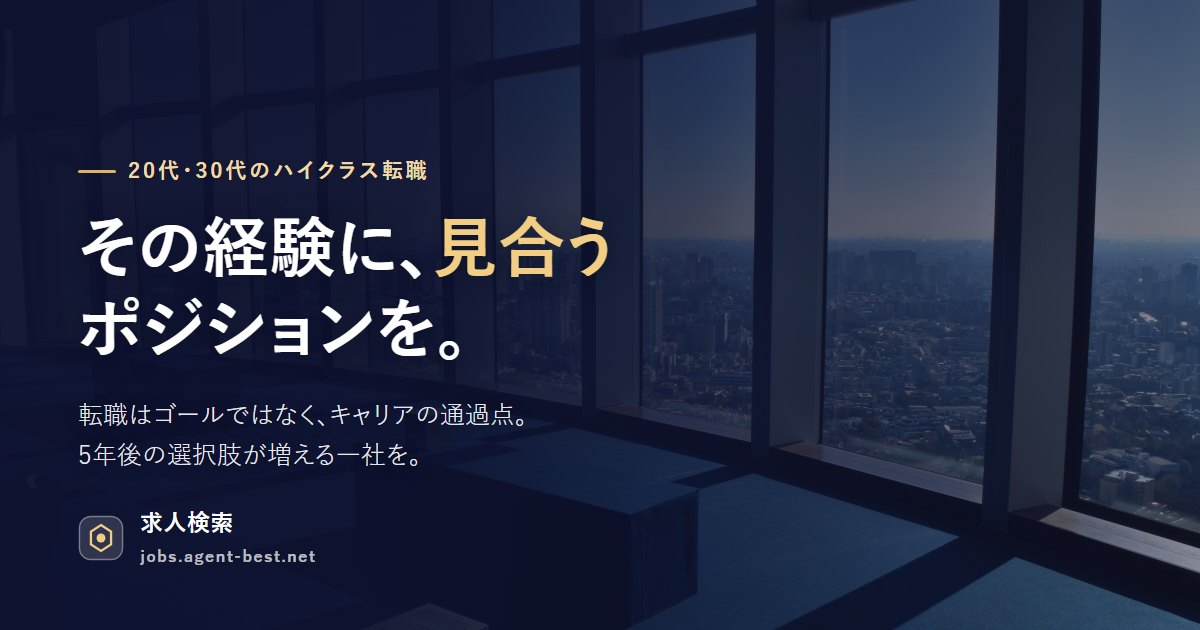
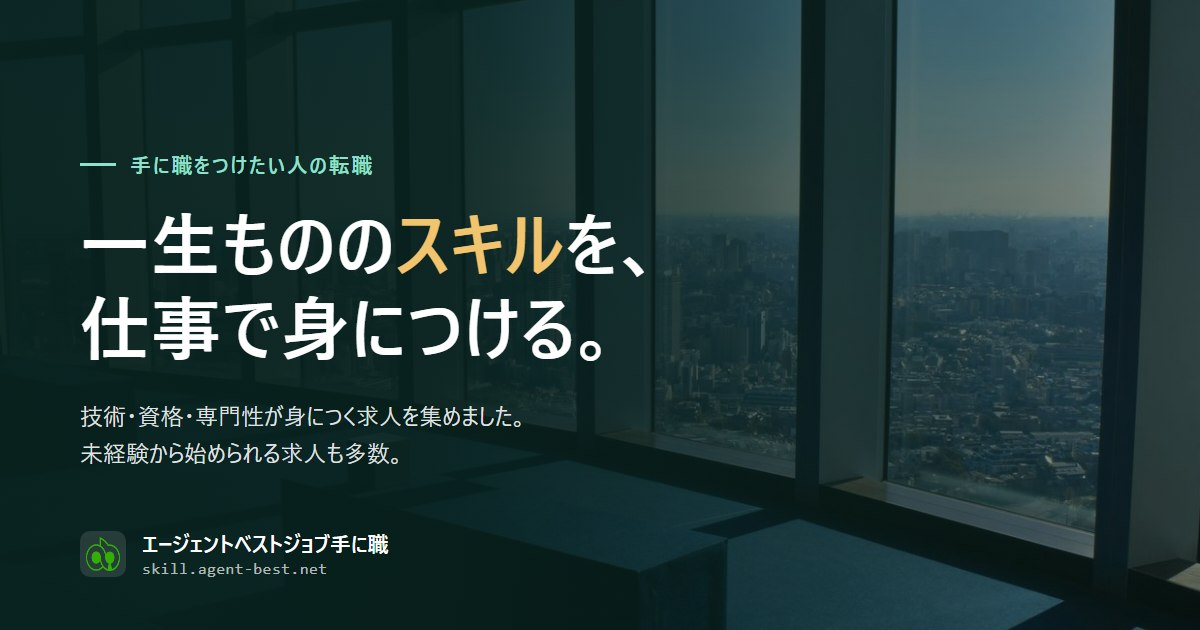
シェア画像（OGP）を skill 用に差し替え

diff --git a/tools/ogp/src.html b/tools/ogp/src.html
@@ -1,0 +1,30 @@
+<!doctype html>
+<html lang="ja"><head><meta charset="utf-8">
+<style>
+  html,body{margin:0;width:1200px;height:630px;overflow:hidden}
+  body{font-family:"Yu Gothic UI","Yu Gothic","Meiryo",sans-serif;color:#fff;position:relative;
+    background:url("file:///C:/Users/user/skill/assets/hero.jpg") center/cover no-repeat}
+  .scrim{position:absolute;inset:0;background:linear-gradient(96deg,rgba(8,34,30,.96) 0%,rgba(8,34,30,.90) 38%,rgba(9,38,33,.60) 66%,rgba(11,44,38,.34) 100%)}
+  .in{position:absolute;left:80px;top:150px;right:80px}
+  .eye{font-size:21px;font-weight:700;letter-spacing:.08em;color:#8FE0CC;display:flex;align-items:center;gap:14px;margin:0 0 22px}
+  .eye::before{content:"";width:36px;height:3px;background:#8FE0CC;display:block}
+  h1{margin:0;font-size:70px;line-height:1.2;font-weight:800;letter-spacing:.01em}
+  h1 em{font-style:normal;color:#F2C46D}
+  .sub{margin:30px 0 0;font-size:23px;line-height:1.6;color:rgba(255,255,255,.88)}
+  .brand{position:absolute;left:80px;bottom:52px;display:flex;align-items:center;gap:16px}
+  .brand img{width:46px;height:46px;border-radius:10px;background:rgba(255,255,255,.12);padding:6px;box-sizing:border-box}
+  .brand b{display:block;font-size:21px}
+  .brand span{display:block;font-size:16px;color:rgba(255,255,255,.7);font-family:Consolas,monospace;letter-spacing:.03em;margin-top:2px}
+</style></head>
+<body>
+  <div class="scrim"></div>
+  <div class="in">
+    <p class="eye">手に職をつけたい人の転職</p>
+    <h1>一生ものの<em>スキル</em>を、<br>仕事で身につける。</h1>
+    <p class="sub">技術・資格・専門性が身につく求人を集めました。<br>未経験から始められる求人も多数。</p>
+  </div>
+  <div class="brand">
+    <img src="file:///C:/Users/user/skill/assets/mark.png" alt="">
+    <div><b>エージェントベストジョブ手に職</b><span>skill.agent-best.net</span></div>
+  </div>
+</body></html>
